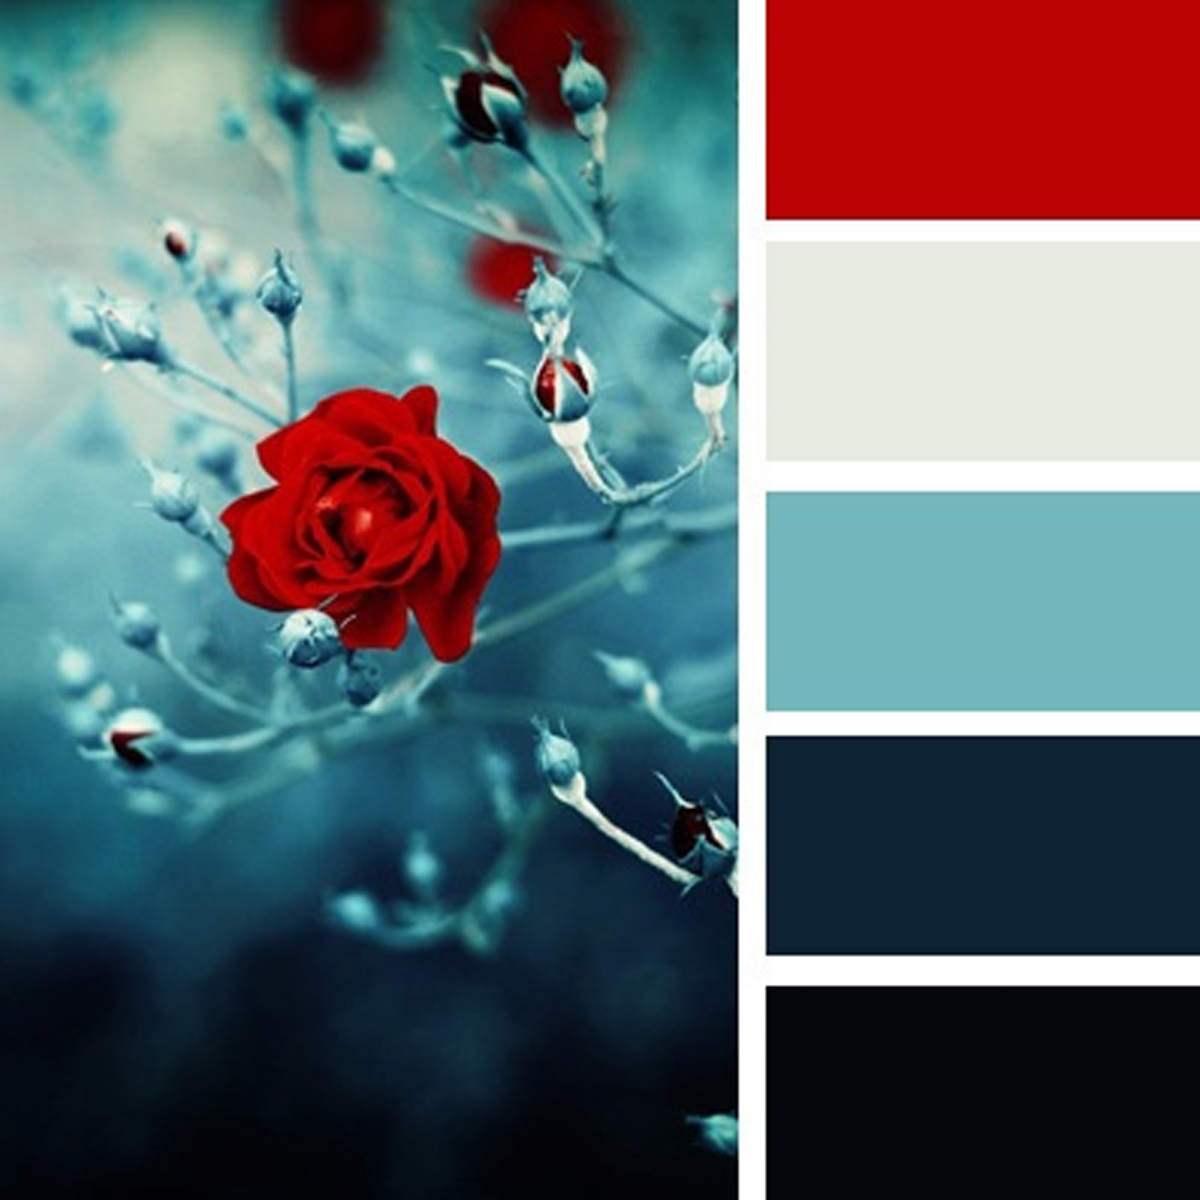
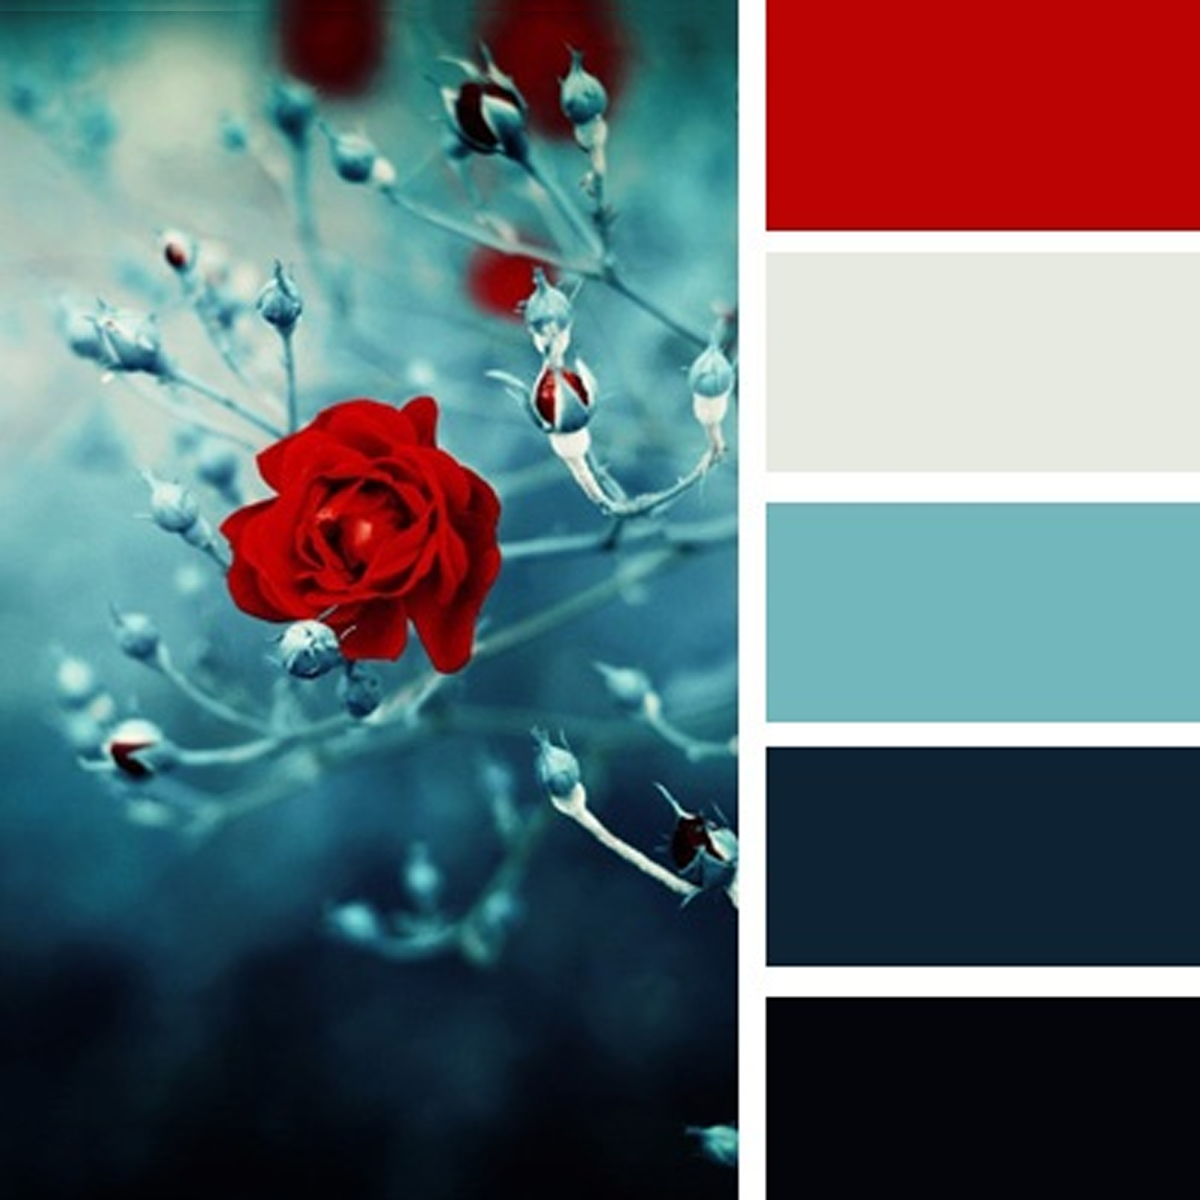
some

diff --git a/public/js/mapManager.js b/public/js/mapManager.js
@@ -14,8 +14,36 @@ class MapManager {
     initMap(center = [58.5215, 31.2755], zoom = 14) {
         this.map = new ymaps.Map(this.mapElementId, {
             center: center,
-            zoom: zoom
+            zoom: zoom,
+            controls: ['fullscreenControl']
         });
+        // ----------------------------------------------------------------------------
+        // Создаем пользовательский макет для кнопки полноэкранного режима
+        const FullscreenControlLayout = ymaps.templateLayoutFactory.createClass(
+            '<div class="custom-fullscreen-control">' +
+            '<span class="icon">+</span>' + // Здесь можно использовать свою иконку
+            '</div>', {
+                build: function () {
+                    FullscreenControlLayout.superclass.build.call(this);
+                    this._$element = $('.custom-fullscreen-control', this.getParentElement());
+                    this._$element.on('click', this._onClick.bind(this));
+                },
+                clear: function () {
+                    this._$element.off('click');
+                    FullscreenControlLayout.superclass.clear.call(this);
+                },
+                _onClick: function () {
+                    alert('Кнопка полноэкранного режима нажата!');
+                }
+            }
+        );
+
+        // Добавляем кнопку с пользовательским макетом
+        const fullscreenControl = new ymaps.control.FullscreenControl({
+            layout: FullscreenControlLayout
+        });
+        this.map.controls.add(fullscreenControl);
+        // ----------------------------------------------------------------------------
         return this.map;
     }
 

diff --git a/public/css/style_ymap_btn.css b/public/css/style_ymap_btn.css
@@ -1,0 +1,15 @@
+/* Переопределение стилей кнопки fullscreenControl */
+.ymaps-2-1-79-fullscreenControl {
+    background-color: red !important;
+    color: white !important;
+    border-radius: 5px;
+}
+
+.ymaps-2-1-79-fullscreenControl:hover {
+    background-color: darkred !important;
+}
+
+.ymaps-2-1-79-fullscreenControl .ymaps-2-1-79-icon {
+    width: 30px !important;
+    height: 30px !important;
+}
